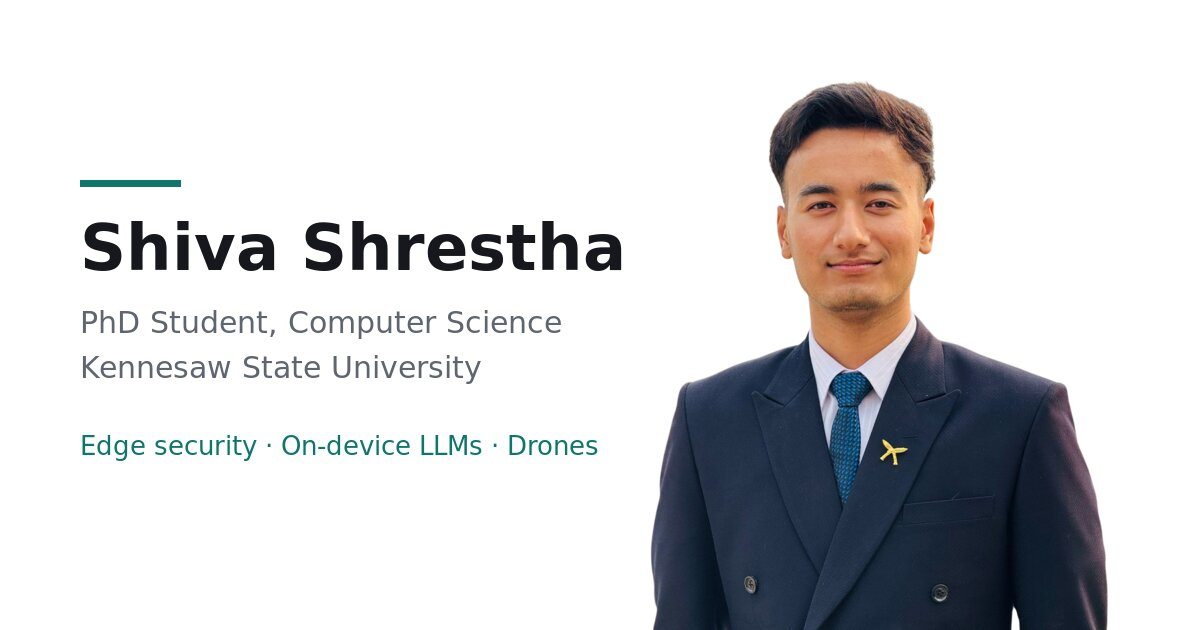
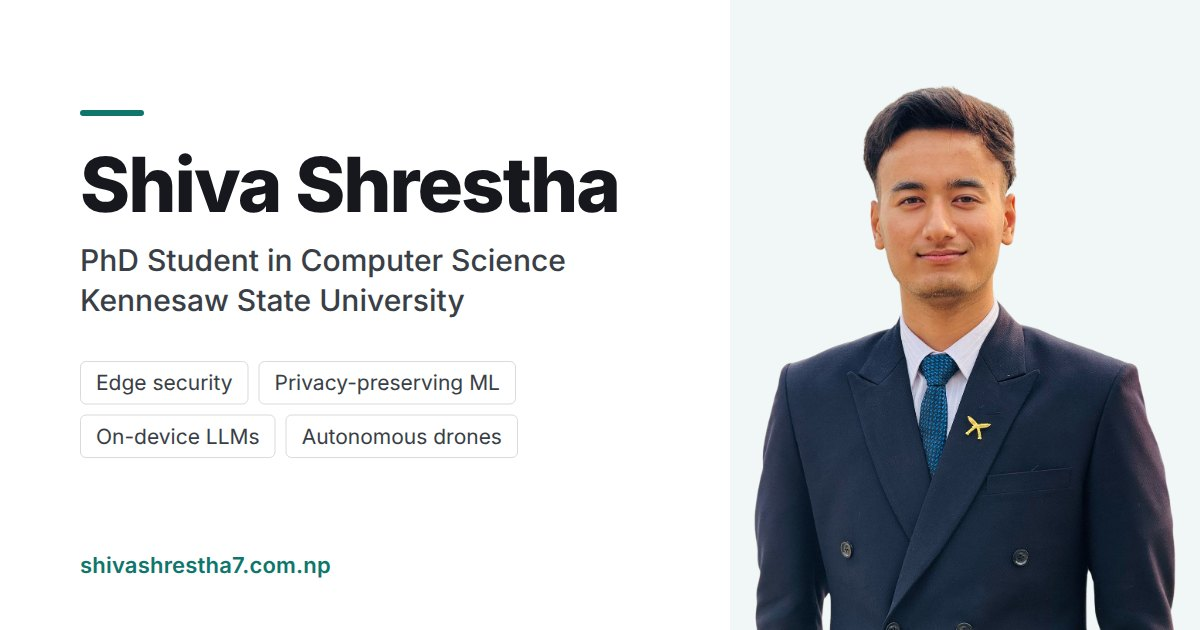
Add full-page network background, section spine and new link-preview image

diff --git a/js/network.js b/js/network.js
@@ -1,0 +1,128 @@
+(() => {
+  const canvas = document.querySelector(".net");
+  if (!canvas || !canvas.getContext) return;
+  const ctx = canvas.getContext("2d");
+  const column = document.querySelector("main.wrap");
+  const reduceMotion = window.matchMedia("(prefers-reduced-motion: reduce)");
+  const TEAL = "15, 118, 110";
+  const LINK = 150;
+
+  let w = 0, h = 0, dpr = 1, nodes = [], pulses = [], colL = 0, colR = 0;
+  let pointer = null, running = false, raf = 0;
+
+  const fade = (x) => (x > colL && x < colR ? 0.35 : 1);
+
+  function resize() {
+    dpr = Math.min(window.devicePixelRatio || 1, 2);
+    w = document.documentElement.clientWidth;
+    h = window.innerHeight;
+    canvas.width = w * dpr;
+    canvas.height = h * dpr;
+    ctx.setTransform(dpr, 0, 0, dpr, 0, 0);
+    if (column) {
+      const r = column.getBoundingClientRect();
+      colL = r.left; colR = r.right;
+    }
+    const count = Math.max(18, Math.min(90, Math.round((w * h) / 13000)));
+    nodes = Array.from({ length: count }, () => ({
+      x: Math.random() * w,
+      y: Math.random() * h,
+      vx: (Math.random() - 0.5) * 0.25,
+      vy: (Math.random() - 0.5) * 0.25,
+      r: 1.4 + Math.random() * 1.6,
+    }));
+    pulses = [];
+    draw();
+  }
+
+  function neighbors() {
+    const pairs = [];
+    for (let i = 0; i < nodes.length; i++) {
+      for (let j = i + 1; j < nodes.length; j++) {
+        const dx = nodes[i].x - nodes[j].x, dy = nodes[i].y - nodes[j].y;
+        const d = Math.hypot(dx, dy);
+        if (d < LINK) pairs.push([nodes[i], nodes[j], d]);
+      }
+    }
+    return pairs;
+  }
+
+  function draw() {
+    ctx.clearRect(0, 0, w, h);
+    const pairs = neighbors();
+    ctx.lineWidth = 1;
+    for (const [a, b, d] of pairs) {
+      const alpha = (1 - d / LINK) * 0.28 * fade((a.x + b.x) / 2);
+      ctx.strokeStyle = `rgba(${TEAL}, ${alpha})`;
+      ctx.beginPath(); ctx.moveTo(a.x, a.y); ctx.lineTo(b.x, b.y); ctx.stroke();
+    }
+    if (pointer) {
+      for (const n of nodes) {
+        const d = Math.hypot(n.x - pointer.x, n.y - pointer.y);
+        if (d < 180) {
+          ctx.strokeStyle = `rgba(${TEAL}, ${(1 - d / 180) * 0.4})`;
+          ctx.beginPath(); ctx.moveTo(n.x, n.y); ctx.lineTo(pointer.x, pointer.y); ctx.stroke();
+        }
+      }
+    }
+    for (const n of nodes) {
+      ctx.fillStyle = `rgba(${TEAL}, ${0.5 * fade(n.x)})`;
+      ctx.beginPath(); ctx.arc(n.x, n.y, n.r, 0, Math.PI * 2); ctx.fill();
+    }
+    for (const p of pulses) {
+      const x = p.a.x + (p.b.x - p.a.x) * p.t, y = p.a.y + (p.b.y - p.a.y) * p.t;
+      const alpha = Math.sin(p.t * Math.PI) * 0.85 * fade(x);
+      ctx.fillStyle = `rgba(${TEAL}, ${alpha})`;
+      ctx.beginPath(); ctx.arc(x, y, 2.4, 0, Math.PI * 2); ctx.fill();
+    }
+    return pairs;
+  }
+
+  function step() {
+    for (const n of nodes) {
+      n.x += n.vx; n.y += n.vy;
+      if (n.x < 0 || n.x > w) n.vx *= -1;
+      if (n.y < 0 || n.y > h) n.vy *= -1;
+    }
+    pulses = pulses.filter((p) => (p.t += p.speed) < 1);
+    const pairs = draw();
+    if (pulses.length < 6 && pairs.length && Math.random() < 0.05) {
+      const [a, b] = pairs[Math.floor(Math.random() * pairs.length)];
+      pulses.push(Math.random() < 0.5 ? { a, b, t: 0, speed: 0.012 } : { a: b, b: a, t: 0, speed: 0.012 });
+    }
+    raf = requestAnimationFrame(step);
+  }
+
+  function sync() {
+    const should = !document.hidden && !reduceMotion.matches;
+    if (should && !running) { running = true; raf = requestAnimationFrame(step); }
+    if (!should && running) { running = false; cancelAnimationFrame(raf); draw(); }
+  }
+
+  window.addEventListener("pointermove", (e) => {
+    pointer = e.pointerType === "mouse" ? { x: e.clientX, y: e.clientY } : null;
+  }, { passive: true });
+  document.addEventListener("pointerleave", () => { pointer = null; });
+  let lastY = window.scrollY;
+  window.addEventListener("scroll", () => {
+    const dy = (window.scrollY - lastY) * 0.25;
+    lastY = window.scrollY;
+    for (const n of nodes) {
+      n.y -= dy;
+      if (n.y < 0) n.y += h;
+      else if (n.y > h) n.y -= h;
+    }
+    if (!running) draw();
+  }, { passive: true });
+  document.addEventListener("visibilitychange", sync);
+  reduceMotion.addEventListener?.("change", sync);
+
+  let resizeTimer = 0;
+  window.addEventListener("resize", () => {
+    clearTimeout(resizeTimer);
+    resizeTimer = setTimeout(resize, 150);
+  });
+
+  resize();
+  sync();
+})();

diff --git a/index.html b/index.html
@@ -8,19 +8,47 @@
   <link rel="canonical" href="https://shivashrestha7.com.np/">
   <link rel="icon" href="images/ShivaLOGO.ico">
 
-  <meta property="og:type" content="website">
+  <meta name="theme-color" content="#0f766e">
+
+  <meta property="og:type" content="profile">
+  <meta property="og:site_name" content="Shiva Shrestha">
+  <meta property="og:locale" content="en_US">
   <meta property="og:url" content="https://shivashrestha7.com.np/">
-  <meta property="og:title" content="Shiva Shrestha">
-  <meta property="og:description" content="PhD student in Computer Science at Kennesaw State University. Edge security, privacy-preserving ML, on-device LLMs and autonomous drones.">
-  <meta property="og:image" content="https://shivashrestha7.com.np/images/og-image.jpg">
+  <meta property="og:title" content="Shiva Shrestha | PhD Student, Kennesaw State University">
+  <meta property="og:description" content="PhD student in Computer Science at Kennesaw State University working on edge security, privacy-preserving ML, on-device LLMs and autonomous drones.">
+  <meta property="og:image" content="https://shivashrestha7.com.np/images/og-image.jpg?v=2">
+  <meta property="og:image:type" content="image/jpeg">
   <meta property="og:image:width" content="1200">
   <meta property="og:image:height" content="630">
+  <meta property="og:image:alt" content="Shiva Shrestha, PhD student in Computer Science at Kennesaw State University">
+  <meta property="profile:first_name" content="Shiva">
+  <meta property="profile:last_name" content="Shrestha">
+
   <meta name="twitter:card" content="summary_large_image">
+  <meta name="twitter:title" content="Shiva Shrestha | PhD Student, Kennesaw State University">
+  <meta name="twitter:description" content="PhD student in Computer Science at Kennesaw State University working on edge security, privacy-preserving ML, on-device LLMs and autonomous drones.">
+  <meta name="twitter:image" content="https://shivashrestha7.com.np/images/og-image.jpg?v=2">
+  <meta name="twitter:image:alt" content="Shiva Shrestha, PhD student in Computer Science at Kennesaw State University">
+
+  <script type="application/ld+json">
+  {
+    "@context": "https://schema.org",
+    "@type": "Person",
+    "name": "Shiva Shrestha",
+    "url": "https://shivashrestha7.com.np/",
+    "image": "https://shivashrestha7.com.np/images/profile.jpg",
+    "jobTitle": "PhD Student in Computer Science",
+    "affiliation": {"@type": "CollegeOrUniversity", "name": "Kennesaw State University"},
+    "alumniOf": {"@type": "CollegeOrUniversity", "name": "Tribhuvan University"},
+    "knowsAbout": ["Edge security", "Privacy-preserving machine learning", "On-device large language models", "Autonomous drones"],
+    "sameAs": ["https://github.com/sh7vashrestha", "https://www.linkedin.com/in/sh7va/", "https://scholar.google.com/citations?user=8IwSr08AAAAJ"]
+  }
+  </script>
 
   <link rel="preconnect" href="https://fonts.googleapis.com">
   <link rel="preconnect" href="https://fonts.gstatic.com" crossorigin>
   <link href="https://fonts.googleapis.com/css2?family=Inter:wght@400;500;600;700&amp;display=swap" rel="stylesheet">
-  <link rel="stylesheet" href="stylesheet.css?v=2">
+  <link rel="stylesheet" href="stylesheet.css?v=4">
 </head>
 <body>
 <a class="skip" href="#main">Skip to content</a>
@@ -37,6 +65,8 @@
     </nav>
   </div>
 </header>
+
+<canvas class="net" aria-hidden="true"></canvas>
 
 <main id="main" class="wrap">
 
@@ -331,6 +361,7 @@
   <p>Last updated November 2026</p>
 </footer>
 
-<script src="js/main.js?v=2"></script>
+<script src="js/main.js?v=4"></script>
+<script src="js/network.js?v=4"></script>
 </body>
 </html>

diff --git a/stylesheet.css b/stylesheet.css
@@ -67,6 +67,41 @@ ul, ol { margin: 0; padding: 0; list-style: none; }
   content: ""; position: absolute; left: 10px; right: 10px; bottom: -1px; height: 2px; background: var(--accent);
 }
 
+/* Network background */
+.net {
+  position: fixed; inset: 0; z-index: 0;
+  width: 100%; height: 100%;
+  pointer-events: none;
+}
+main, .foot { position: relative; z-index: 1; }
+
+/* Section spine: one neuron per section, joined by an axon that carries pulses */
+@media (min-width: 1000px) {
+  main.wrap::before {
+    content: ""; position: absolute; left: -36px; top: var(--spine-top, 0); height: var(--spine-h, 0); width: 2px;
+    background:
+      linear-gradient(to bottom, transparent, rgba(15, 118, 110, 0.55) 50%, transparent) 0 0 / 2px 160px no-repeat,
+      linear-gradient(var(--line), var(--line));
+    animation: axon 4s linear infinite;
+  }
+  .sec { position: relative; }
+  .sec h2 { position: relative; }
+  .sec h2::before {
+    content: ""; position: absolute; left: -42px; top: 50%; width: 14px; height: 14px; margin-top: -7px;
+    border-radius: 50%; background: #fff; border: 2px solid #b9d9d4;
+    transition: background 0.25s, border-color 0.25s, box-shadow 0.25s;
+  }
+  .sec .h2-follow::before { width: 10px; height: 10px; margin-top: -5px; left: -40px; }
+  .sec.is-active > h2:first-child::before {
+    background: var(--accent); border-color: var(--accent);
+    box-shadow: 0 0 0 6px rgba(15, 118, 110, 0.14);
+  }
+}
+@keyframes axon {
+  from { background-position: 0 -160px, 0 0; }
+  to { background-position: 0 100%, 0 0; }
+}
+
 /* Intro */
 .intro {
   display: grid; grid-template-columns: 1fr 200px; gap: 48px; align-items: start;
@@ -146,6 +181,7 @@ ul, ol { margin: 0; padding: 0; list-style: none; }
 
 @media (prefers-reduced-motion: reduce) {
   html { scroll-behavior: auto; }
+  main.wrap::before { animation: none; }
 }
 
 @media (max-width: 400px) {

diff --git a/js/main.js b/js/main.js
@@ -18,10 +18,22 @@ document.addEventListener("DOMContentLoaded", () => {
         if (section.getBoundingClientRect().top <= offset) current = section;
       }
     }
+    sections.forEach((section) => section.classList.toggle("is-active", section === current));
     links.forEach((a) => {
       if (current && a.getAttribute("href") === `#${current.id}`) a.setAttribute("aria-current", "true");
       else a.removeAttribute("aria-current");
     });
+  };
+
+  const main = document.querySelector("main");
+  const layoutSpine = () => {
+    const heads = sections.map((section) => section.querySelector("h2")).filter(Boolean);
+    if (!main || heads.length < 2) return;
+    const base = main.getBoundingClientRect().top;
+    const mid = (el) => { const r = el.getBoundingClientRect(); return r.top + r.height / 2 - base; };
+    const top = mid(heads[0]);
+    main.style.setProperty("--spine-top", `${top}px`);
+    main.style.setProperty("--spine-h", `${mid(heads[heads.length - 1]) - top}px`);
   };
 
   let ticking = false;
@@ -30,6 +42,8 @@ document.addEventListener("DOMContentLoaded", () => {
     ticking = true;
     requestAnimationFrame(() => { update(); ticking = false; });
   }, { passive: true });
-  window.addEventListener("resize", update);
+  window.addEventListener("resize", () => { layoutSpine(); update(); });
+  window.addEventListener("load", layoutSpine);
+  layoutSpine();
   update();
 });
